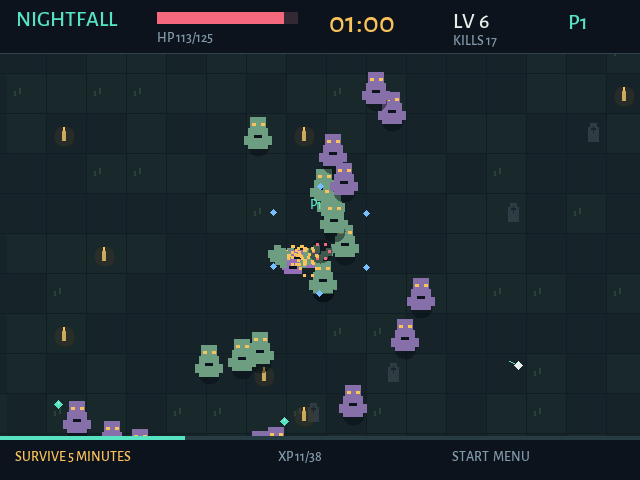
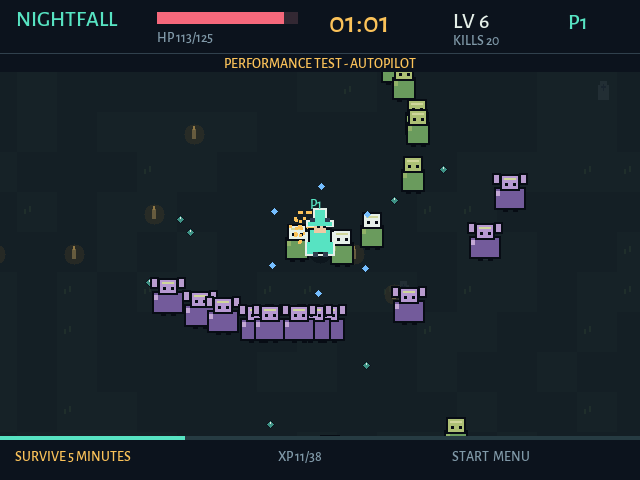
Improve crowded combat silhouettes and verify rendering on RG40XX H

diff --git a/src/render.hpp b/src/render.hpp
@@ -26,6 +26,11 @@ struct Paint {
         SDL_Rect a{x, y, w, h};
         SDL_RenderFillRect(r, &a);
     }
+    // Two-pixel ink borders preserve silhouettes where sprites overlap at 640x480.
+    void spriteBox(int x, int y, int w, int h, Color c) {
+        box(x - 2, y - 2, w + 4, h + 4, {7, 12, 20});
+        box(x, y, w, h, c);
+    }
     void frame(int x, int y, int w, int h, Color c) {
         color(c);
         SDL_Rect a{x, y, w, h};
@@ -62,11 +67,14 @@ struct Paint {
             box(x - 4, y - 5, 8, 24, White);
             return;
         }
-        if (hurt && int(time * 20) % 2)
-            return;
-        Color c = playerColor(id);
+        // Damage feedback must never make the player disappear inside a crowd.
+        Color c = hurt && int(time * 20) % 2 ? White : playerColor(id);
         int bob = int(std::sin(time * 8 + id) * 2);
-        box(x - 10, y - 9 + bob, 20, 22, c);
+        // Light outer silhouette and dark inner edge separate the hero from enemies.
+        box(x - 7, y - 31 + bob, 14, 15, White);
+        box(x - 14, y - 19 + bob, 28, 7, White);
+        box(x - 15, y - 7 + bob, 30, 24, White);
+        spriteBox(x - 10, y - 9 + bob, 20, 22, c);
         box(x - 13, y + 3 + bob, 6, 12, c);
         box(x + 7, y + 3 + bob, 6, 12, c);
         box(x - 6, y - 18 + bob, 12, 12, {239, 201, 164});
@@ -83,34 +91,53 @@ struct Paint {
         int x = int(s.x), y = int(s.y);
         if (x < -40 || x > 680 || y < -40 || y > 520)
             return;
-        Color c = e.flash > 0
-                      ? White
-                      : (e.type == 3 ? Color{194, 92, 118}
-                                     : (e.type == 2 ? Color{135, 112, 169} : Color{109, 158, 130}));
+        const Color edge{7, 12, 20};
+        const Color body = e.type == 3 ? Color{177, 65, 91}
+                           : e.type == 2 ? Color{115, 91, 155}
+                           : e.type == 1 ? Color{173, 112, 188}
+                                         : Color{106, 155, 93};
+        // A hit lights the face, retaining the body colour/type in mass combat.
+        const Color face = e.flash > 0 ? White
+                           : e.type == 2 ? Color{183, 153, 210}
+                                         : Color{173, 192, 117};
         int bob = int(std::sin(t * 5 + e.id) * 2);
+        y += bob;
         if (e.type == 1) {
-            box(x - 9, y - 6 + bob, 18, 15, {151, 111, 184});
-            for (int i = 0; i < 3; i++) {
-                box(x - 23 + i * 5, y - 11 + i * 3 + bob, 7, 8, c);
-                box(x + 16 - i * 5, y - 11 + i * 3 + bob, 7, 8, c);
+            // Bats: wide scalloped wings, small bright face; never a humanoid block.
+            for (int side : {-1, 1}) {
+                int left = side < 0 ? x - 22 : x + 7;
+                spriteBox(left, y - 9, 15, 7, body);
+                box(side < 0 ? x - 17 : x + 7, y - 2, 10, 5, body);
             }
+            spriteBox(x - 6, y - 8, 12, 16, body);
+            box(x - 5, y - 14, 3, 7, body);
+            box(x + 2, y - 14, 3, 7, body);
+            box(x - 4, y - 6, 3, 3, White);
+            box(x + 2, y - 6, 3, 3, White);
         } else {
-            int k = e.type == 3 ? 2 : 1;
-            circle(x, y + 12 * k, 11 * k, {5, 11, 19, 120});
-            box(x - 10 * k, y - 6 * k + bob, 20 * k, 21 * k, c);
-            box(x - 8 * k, y - 17 * k + bob, 16 * k, 14 * k, c);
-            box(x - 14 * k, y + 2 * k + bob, 5 * k, 9 * k, c);
-            box(x + 9 * k, y + 2 * k + bob, 5 * k, 9 * k, c);
+            const int k = e.type == 3 ? 2 : 1;
+            const int width = e.type == 2 ? 14 : 10;
+            spriteBox(x - width * k, y - 5 * k, width * 2 * k, 19 * k, body);
+            spriteBox(x - 8 * k, y - 18 * k, 16 * k, 13 * k, face);
+            box(x - 6 * k, y - 16 * k, 12 * k, 2 * k, {207, 214, 155});
+            box(x - 5 * k, y - 11 * k, 3 * k, 3 * k, edge);
+            box(x + 3 * k, y - 11 * k, 3 * k, 3 * k, edge);
+            box(x - 3 * k, y - 5 * k, 7 * k, 2 * k, edge);
+            // Separated feet and shoulder accents read through neighbouring bodies.
+            box(x - 7 * k, y + 14 * k, 5 * k, 4 * k, edge);
+            box(x + 3 * k, y + 14 * k, 5 * k, 4 * k, edge);
+            box(x - width * k, y - 3 * k, 4 * k, 5 * k,
+                e.type == 2 ? Color{195, 167, 213} : Color{145, 178, 104});
+            if (e.type == 2) {
+                spriteBox(x - 16, y - 19, 5, 8, {185, 156, 207});
+                spriteBox(x + 11, y - 19, 5, 8, {185, 156, 207});
+            }
             if (e.type == 3) {
-                box(x - 18, y - 39 + bob, 36, 9, Gold);
-                box(x - 18, y - 45 + bob, 6, 9, Gold);
-                box(x - 3, y - 45 + bob, 6, 9, Gold);
-                box(x + 12, y - 45 + bob, 6, 9, Gold);
+                spriteBox(x - 18, y - 40, 36, 8, Gold);
+                for (int dx : {-18, -3, 12})
+                    box(x + dx, y - 47, 6, 9, Gold);
             }
         }
-        box(x - 6, y - 11 + bob, 4, 3, Gold);
-        box(x + 3, y - 11 + bob, 4, 3, Gold);
-        box(x - 4, y + 1 + bob, 8, 3, Ink);
     }
     void world(const World &w, int local) {
         int id = std::clamp(local, 0, 3);
@@ -123,30 +150,55 @@ struct Paint {
                 uint32_t h = (uint32_t(xx) * 73856093u) ^ (uint32_t(yy) * 19349663u);
                 Vec s = screen({xx * 40.f, yy * 40.f});
                 int x = int(s.x), y = int(s.y);
-                box(x, y, 39, 39, h % 3 ? Color{22, 36, 42} : Color{25, 40, 43});
+                box(x, y, 40, 40, h % 3 ? Color{20, 31, 37} : Color{22, 34, 39});
                 if (h % 9 == 0) {
-                    box(x + 7, y + 17, 2, 5, {42, 64, 59});
-                    box(x + 12, y + 14, 2, 6, {42, 64, 59});
+                    box(x + 7, y + 17, 2, 5, {31, 46, 43});
+                    box(x + 12, y + 14, 2, 6, {31, 46, 43});
                 }
                 if (h % 31 == 0) {
-                    box(x + 21, y + 13, 11, 15, {47, 60, 67});
-                    box(x + 23, y + 9, 7, 7, {47, 60, 67});
+                    box(x + 21, y + 13, 11, 15, {34, 46, 52});
+                    box(x + 23, y + 9, 7, 7, {34, 46, 52});
                     box(x + 24, y + 14, 5, 2, {25, 36, 46});
                     box(x + 26, y + 12, 1, 7, {25, 36, 46});
                 }
                 if (h % 53 == 0) {
                     circle(x + 17, y + 22, 10, {65, 56, 37, 100});
-                    box(x + 15, y + 17, 4, 10, {203, 170, 95});
-                    box(x + 16, y + 13 + int(w.time * 5) % 2, 2, 4, Gold);
+                    box(x + 15, y + 17, 4, 10, {102, 91, 62});
+                    box(x + 16, y + 13 + int(w.time * 5) % 2, 2, 4, {144, 120, 69});
                 }
             }
         for (auto &g : w.gems) {
             Vec s = screen(g.pos);
-            diamond(int(s.x), int(s.y), 4, g.value > 1 ? Gold : Teal);
+            diamond(int(s.x), int(s.y), 4, Ink);
+            diamond(int(s.x), int(s.y), 3, g.value > 1 ? Gold : Color{62, 145, 132});
             box(int(s.x), int(s.y) - 2, 1, 2, White);
         }
-        for (auto &e : w.enemies)
-            monster(e, w.time);
+        // Stable foot ordering prevents spawn order from cutting faces with distant bodies.
+        std::vector<const Enemy *> depth;
+        depth.reserve(w.enemies.size());
+        for (const auto &e : w.enemies)
+            depth.push_back(&e);
+        std::sort(depth.begin(), depth.end(), [](const Enemy *a, const Enemy *b) {
+            return a->pos.y == b->pos.y ? a->id < b->id : a->pos.y < b->pos.y;
+        });
+        for (const auto *e : depth)
+            monster(*e, w.time);
+        for (auto &s : w.shots) {
+            Vec p = screen(s.pos);
+            Vec trail = p - unit(s.vel) * 10;
+            line(int(trail.x), int(trail.y), int(p.x), int(p.y), playerColor(s.owner));
+            diamond(int(p.x), int(p.y), 5, Ink);
+            diamond(int(p.x), int(p.y), 3, White);
+        }
+        for (auto &s : w.sparks) {
+            Vec p = screen(s.pos);
+            int rad = int((.35f - s.life) * 45);
+            for (int k = 0; k < 6; k++) {
+                float a = k * Pi / 3;
+                box(int(p.x + std::cos(a) * rad), int(p.y + std::sin(a) * rad), 3, 3,
+                    s.kind == 0 ? Red : Gold);
+            }
+        }
         for (int i = 0; i < 4; i++) {
             auto &p = w.players[i];
             if (!p.active)
@@ -165,21 +217,6 @@ struct Paint {
             if (p.hp <= 0) {
                 box(int(s.x) - 20, int(s.y) + 24, 40, 4, Panel);
                 box(int(s.x) - 20, int(s.y) + 24, int(40 * p.revive / 3), 4, Teal);
-            }
-        }
-        for (auto &s : w.shots) {
-            Vec p = screen(s.pos);
-            Vec trail = p - unit(s.vel) * 10;
-            line(int(trail.x), int(trail.y), int(p.x), int(p.y), playerColor(s.owner));
-            diamond(int(p.x), int(p.y), 4, White);
-        }
-        for (auto &s : w.sparks) {
-            Vec p = screen(s.pos);
-            int rad = int((.35f - s.life) * 45);
-            for (int k = 0; k < 6; k++) {
-                float a = k * Pi / 3;
-                box(int(p.x + std::cos(a) * rad), int(p.y + std::sin(a) * rad), 3, 3,
-                    s.kind == 0 ? Red : Gold);
             }
         }
         box(0, 0, 640, 53, Ink);

diff --git a/docs/RELEASE-NOTES-0.1.3.md b/docs/RELEASE-NOTES-0.1.3.md
@@ -1,0 +1,11 @@
+# Nightfall Survivors 0.1.3 — различимость в толпе
+
+Враги получили тёмные контуры, разные силуэты и более отчётливые лица. Отрисовка по глубине сохраняет понятный порядок перекрытий. Земля и опыт приглушены, белые снаряды выделены тёмным краем. Герой имеет светлую окантовку, не исчезает при получении урона и остаётся поверх мелких эффектов. Боевые правила сохранены.
+
+На RG40XX H / muOS 2601.0 Jacaranda проверен настоящий экран 640 × 480. Короткая сцена с 240 врагами и до 31 снаряда: **59,56 FPS**, p95 **16,92 мс**, p99 **17,12 мс** за 20 секунд. Пройдены проверки симуляции, сетевого кооператива, интерфейса и обновлений на macOS и Linux ARM64.
+
+Скачайте `nightfall-0.1.3-muos.zip` и следуйте `INSTALL-RU.md`, сохранив папку `nightfall/save`. С версии 0.1.2 достаточно встроенного обновления при наличии доступа к GitHub. С 0.1.0/0.1.1 нужен полный комплект с исправленным ярлыком. На тестовой приставке ранее наблюдалась проблема DNS, поэтому эта версия установлена напрямую; системные сетевые настройки не менялись.
+
+Обычный запуск: **PORTS → Nightfall Survivors**. A — выбор, B — назад, Start — меню, левый стик или крестовина — движение. Автоатаки работают постоянно.
+
+Архив документации содержит инструкции, архитектуру, планы развития, лицензии и результаты аппаратных проверок. Исходники шрифтов и воспроизводимый генератор атласов сохранены в репозитории.

diff --git a/README.md b/README.md
@@ -18,7 +18,9 @@
 
 В Releases доступны готовый комплект, отдельный архив документации и русская инструкция.
 
-## Что работает в версии 0.1.2
+## Что работает в версии 0.1.3
+
+В 0.1.3 улучшена различимость врагов и героя в толпе: контуры, отдельные силуэты, спокойный фон и отчётливые снаряды. На RG40XX H / muOS 2601.0 короткая проверка с 240 врагами дала 59,56 FPS. Снимок и метрики сохранены в аппаратном отчёте.
 
 - Забег на пять минут; для победы нужно также победить Стража, который появляется на четвёртой минуте.
 - Три обычных типа врагов и босс, автонаведение, опыт и три варианта улучшения при повышении уровня.
@@ -32,7 +34,7 @@
 ## Установка на muOS
 
 1. Установить PortMaster через средства muOS, чтобы загрузчик получил настройки окружения и контроллера.
-2. Скачать `nightfall-0.1.2-muos.zip` из Releases.
+2. Скачать `nightfall-0.1.3-muos.zip` из Releases.
 3. Распаковать так, чтобы `Nightfall Survivors.sh` и папка `nightfall` лежали рядом в каталоге портов, который видит меню muOS. Для раздельной схемы: скрипт в `ROMS/PORTS`, данные в `/mnt/mmc/ports/nightfall` или `/mnt/sdcard/ports/nightfall`.
 4. Запустить **Nightfall Survivors** из меню портов. При необходимости назначить скрипту ядро запуска External/Ports в muOS.
 

diff --git a/docs/HARDWARE-TEST.md b/docs/HARDWARE-TEST.md
@@ -1,5 +1,13 @@
 # Проверка RG40XX H / muOS — 20 октября 2026
 
+## Дополнение: различимость толпы в 0.1.3
+
+Версия 0.1.3 установлена на эту же приставку; SHA-256 установленного файла совпадает со сборкой релиза. На физическом framebuffer 640 × 480 проверены новые контуры, силуэты, приглушённый фон и выделение героя. Предельная сцена: **240 врагов, до 31 снаряда, 1200 кадров / 20,15 с, 59,56 FPS, p95 16,92 мс, p99 17,12 мс**. Это короткая проверка, не длительный тепловой тест. Проверки управления и звука ниже относятся к 0.1.2; в 0.1.3 изменена только отрисовка.
+
+![Толпа на физическом экране, 0.1.3](hardware/results/readability-framebuffer-0.1.3.png)
+
+[Метрики 0.1.3](hardware/results/readability-stress-0.1.3.json).
+
 Установлена и проверена **Nightfall Survivors 0.1.2**. Исправлены чёрный экран, тихий/нулевой аудиовыход и путь к PortMaster; обновлена типографика по пожеланию пользователя.
 
 ## Устройство и установка

diff --git a/docs/GAME-UI-SPEC.md b/docs/GAME-UI-SPEC.md
@@ -1,5 +1,7 @@
 # Интерфейс Nightfall Survivors
 
+В 0.1.3 различимость толпы усилена тёмными контурами, отдельными силуэтами и цветами зомби, летучих мышей и громил. Враги сортируются по положению ног; попадания подсвечивают лицо, сохраняя цвет тела. Герой имеет светлую окантовку, остаётся видимым при уроне и рисуется поверх мелких боевых эффектов. Земля и опыт приглушены; белые снаряды имеют тёмный край. Боевые правила сохранены. Проверочная сцена: `--stress`, 240 врагов, экран 640 × 480.
+
 Целевая среда: экран RG40XX H 640 × 480, управление крестовиной/стиком и кнопками. Настройки для телевизора с overscan рассматриваются отдельно; текущая версия ориентирована на встроенный экран приставки.
 
 - Мир — тёмное кладбище, бирюзовая магия; интерфейс — светлый текст, золотые акценты и тёмные подложки.

diff --git a/docs/INSTALL-RU.md b/docs/INSTALL-RU.md
@@ -34,7 +34,7 @@ nightfall/
 
 ## Переход с раннего прототипа
 
-При переходе с 0.1.0/0.1.1 установите полный архив 0.1.2: исправления касаются запускающего скрипта, графики и звука. Сохраните существующую папку `nightfall/save`. Сам апдейтер заменяет только бинарник.
+При переходе с 0.1.0/0.1.1 установите полный архив 0.1.3: исправления касаются запускающего скрипта, графики и звука. Сохраните существующую папку `nightfall/save`. Сам апдейтер заменяет только бинарник. С 0.1.2 встроенный апдейтер может установить 0.1.3 без замены ярлыка.
 
 ## Первый запуск и управление
 

diff --git a/CHANGELOG.md b/CHANGELOG.md
@@ -1,5 +1,11 @@
 # Изменения
 
+## 0.1.3 — 20 октября 2026
+
+- Улучшена различимость толпы: контуры, разные силуэты врагов и сортировка по глубине.
+- Герой выделен светлой окантовкой и остаётся видимым при уроне; частицы не перекрывают его.
+- Приглушены фон и опыт, снаряды выделены белой серединой с тёмным контуром.
+
 ## 0.1.2 — 20 октября 2026
 
 - Исправлен чёрный экран на muOS 2601.0: используется системная SDL2 с Mali framebuffer backend.
